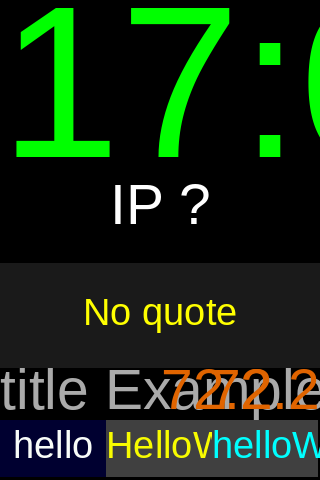
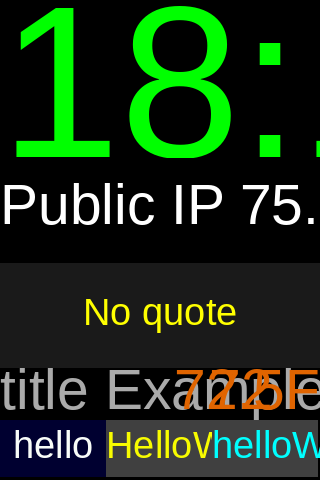
add transform support for rendering panels and enhance JSON path extraction logic

diff --git a/src/clockish/display.py b/src/clockish/display.py
@@ -653,9 +653,17 @@ def _extract_value_by_json_path(response_text: str, json_path: str) -> tuple[str
 
         json_path = json_path.strip()
 
-        # Simple key (no dots): extract from first object
+        # Simple key (no dots): try the root object first, then fall back to
+        # scanning one level deep for a wrapped/nested object.
         if '.' not in json_path:
-            # Get first object (dict keys are ordered in Python 3.7+)
+            if json_path in data:
+                value = data.get(json_path)
+                if value is None:
+                    return (None, True)  # Key present but null -- treat as missing
+                return (str(value), False)
+
+            # Root key absent: look for it inside the first nested object
+            # (e.g. {"<device-id>": {"tempF": 71.8}}).
             for obj in data.values():
                 if isinstance(obj, dict):
                     value = obj.get(json_path)
@@ -984,6 +992,7 @@ def _render_clock_panel(p: dict, px: int, py: int, pw: int, ph: int,
     else:
         fmt = _TIME_FORMATS.get(_time_format, _time_format)
     time_str    = now.strftime(fmt).upper()
+    time_str    = apply_transforms(time_str, p.get('transform'), debug=DEBUG)
     label_str   = p.get('label', '')
 
     if DEBUG_LAYOUT:
@@ -1006,6 +1015,7 @@ def _render_date_panel(p: dict, px: int, py: int, pw: int, ph: int,
     color    = p.get('color', _C_WHITE)
     date_f   = _get_font(p.get('font_size', 'normal'))
     date_str = now.strftime(p.get('date_format', '%a %b %-d, %Y'))
+    date_str = apply_transforms(date_str, p.get('transform'), debug=DEBUG)
 
     if DEBUG_LAYOUT:
         cell_h  = _font_height(date_f)
@@ -1024,6 +1034,7 @@ def _render_fact_panel(p: dict, px: int, py: int, pw: int, ph: int,
     color  = p.get('color', _C_WHITE)
     source = p['source']
     value  = _get_fact(source)
+    value  = apply_transforms(value, p.get('transform'), debug=DEBUG)
 
     if 'label' not in p:
         text = value
@@ -1079,6 +1090,10 @@ def _render_url_fact_panel(p: dict, px: int, py: int, pw: int, ph: int,
         else:
             # Use cached value
             value = cache_entry['value']
+
+    # Apply transforms to the raw cached value each render (cheap; lets
+    # config edits to 'transform:' take effect without cache invalidation).
+    value = apply_transforms(value, p.get('transform'), debug=DEBUG)
 
     # Render like fact panel
     if label:

diff --git a/URL_FACT_GUIDE.md b/URL_FACT_GUIDE.md
@@ -30,6 +30,15 @@ panels:
   - `pattern`: Python regex with capture group(s); first group extracted
   - `json_path`: Dot-notation path into JSON response (e.g., `data.temp`)
 
+  For a dot-less `json_path` (e.g. `ip`, `tempF`), lookup is tried in this order:
+  1. **Root-level key** -- `{"ip": "203.0.113.42"}` + `json_path: ip` -> `203.0.113.42`
+  2. **Nested-wrapper key** (only if the root key is absent) -- for APIs that wrap
+     their payload under an opaque/variable top-level key, e.g.
+     `{"286114a10300004b": {"tempF": 71.8}}` + `json_path: tempF` -> `71.8`
+
+  Use dot notation (`data.temp`) when you need to navigate an explicitly-named
+  nested structure.
+
 ### Optional Keys
 - `interval`: Frequency to fetch (default: `5m`)
   - Formats: `30s`, `5m`, `1h`, `2.5m`, etc.